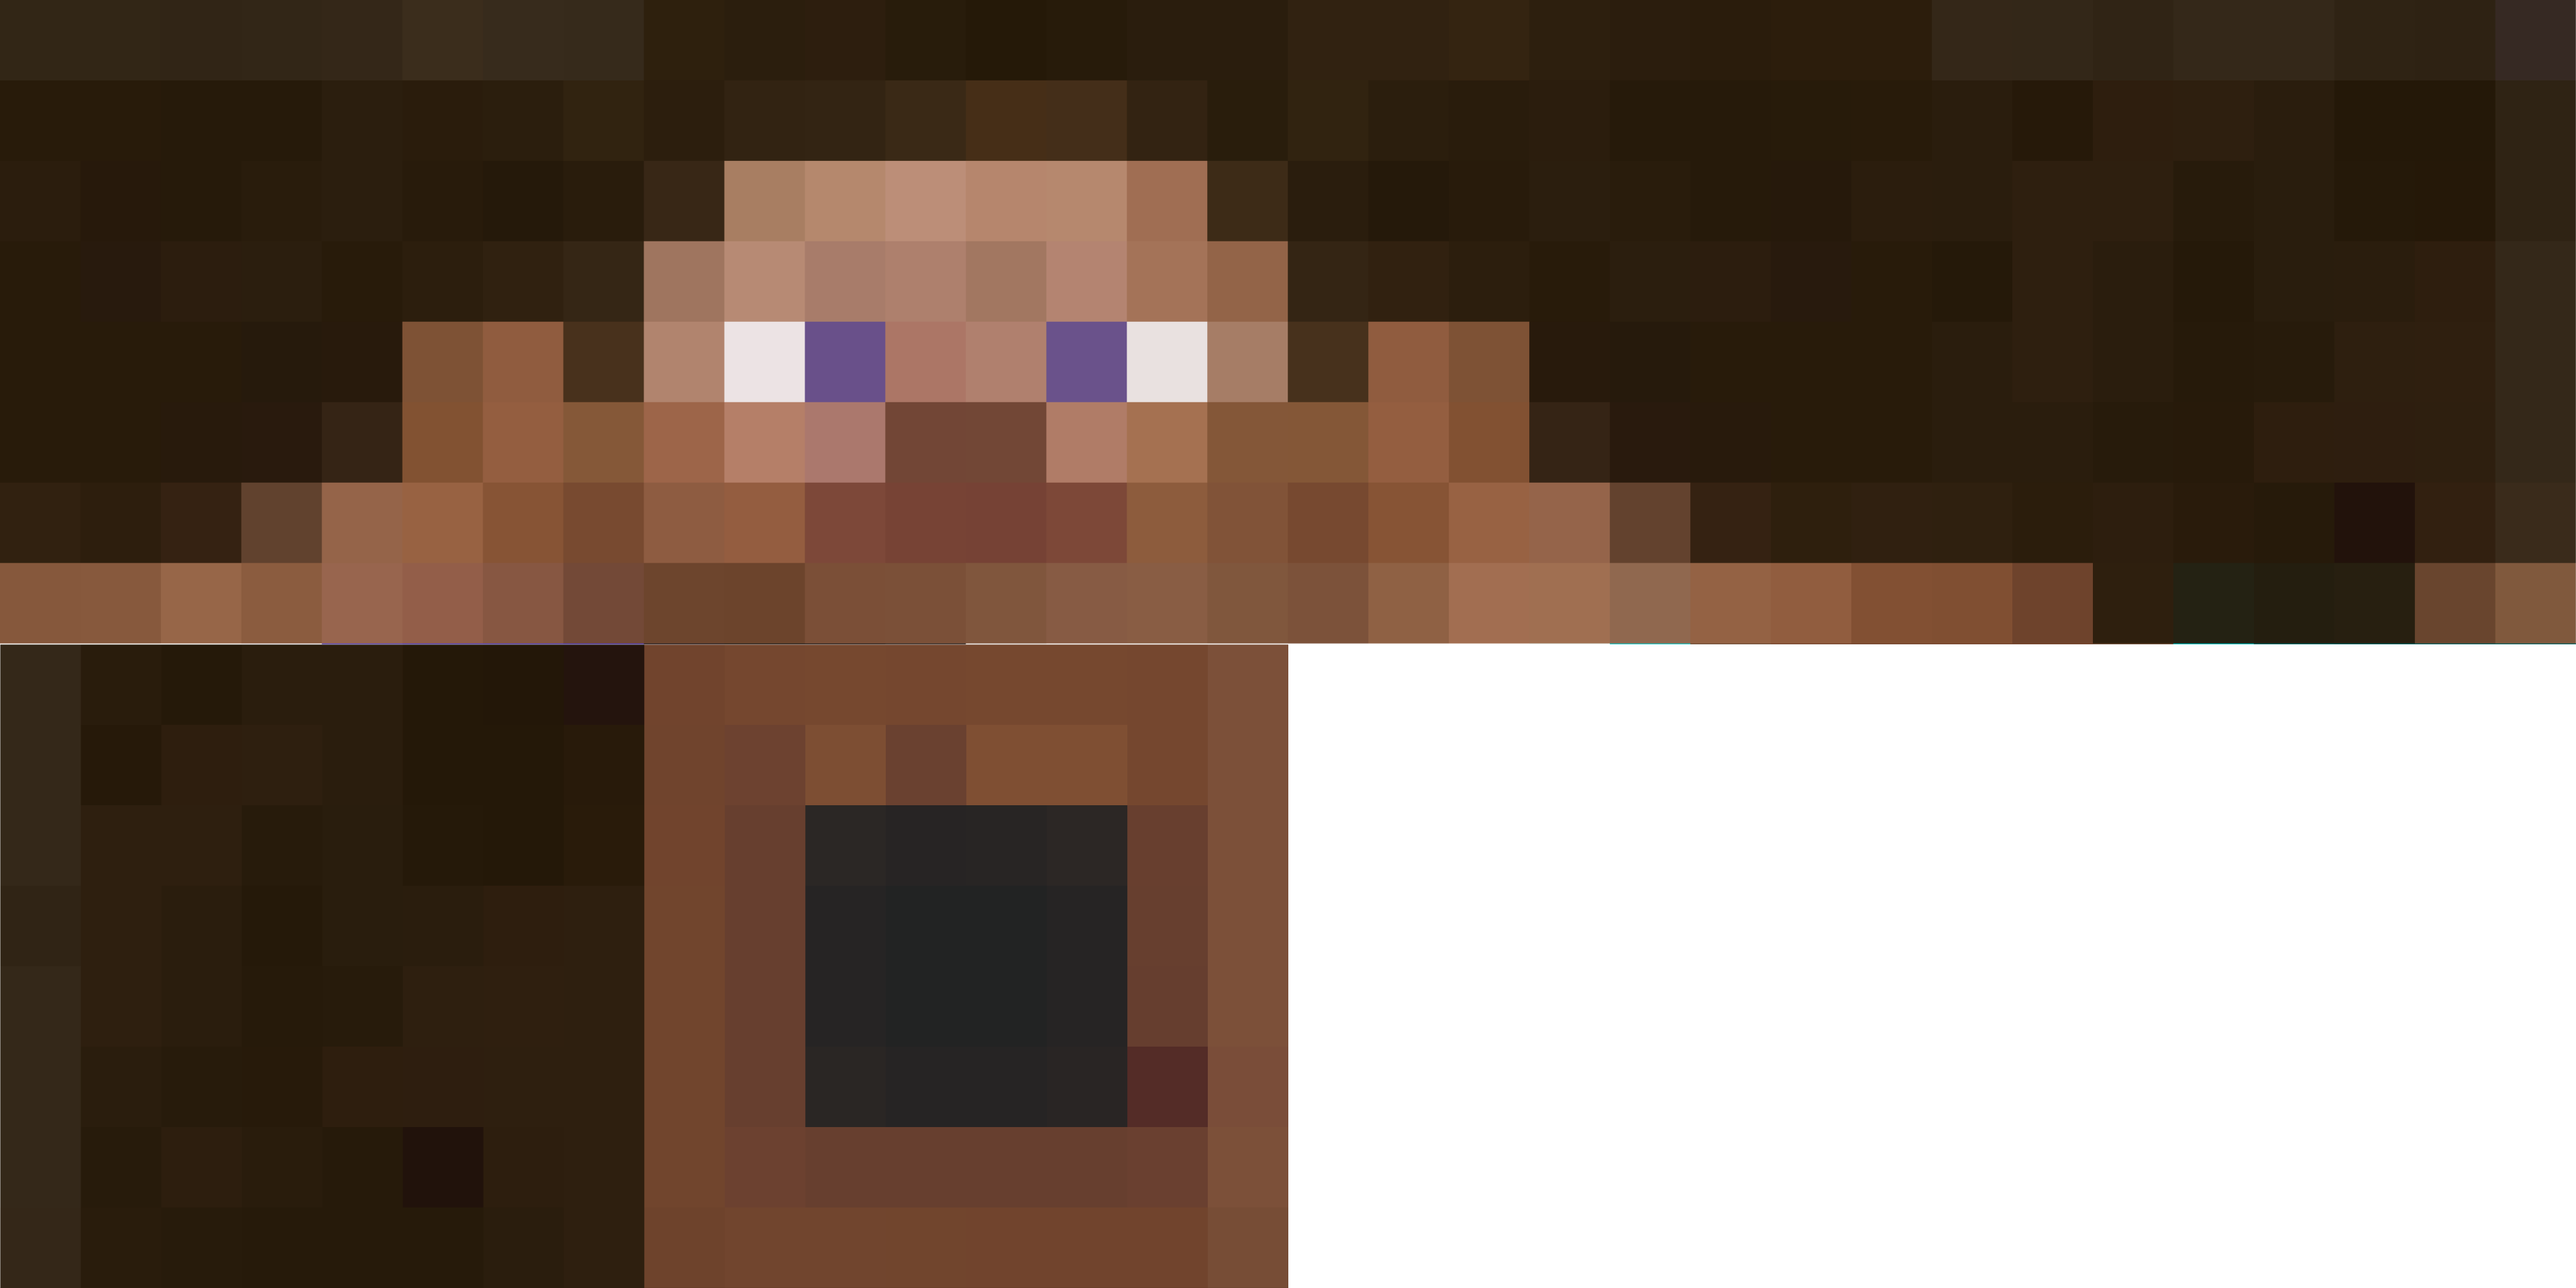
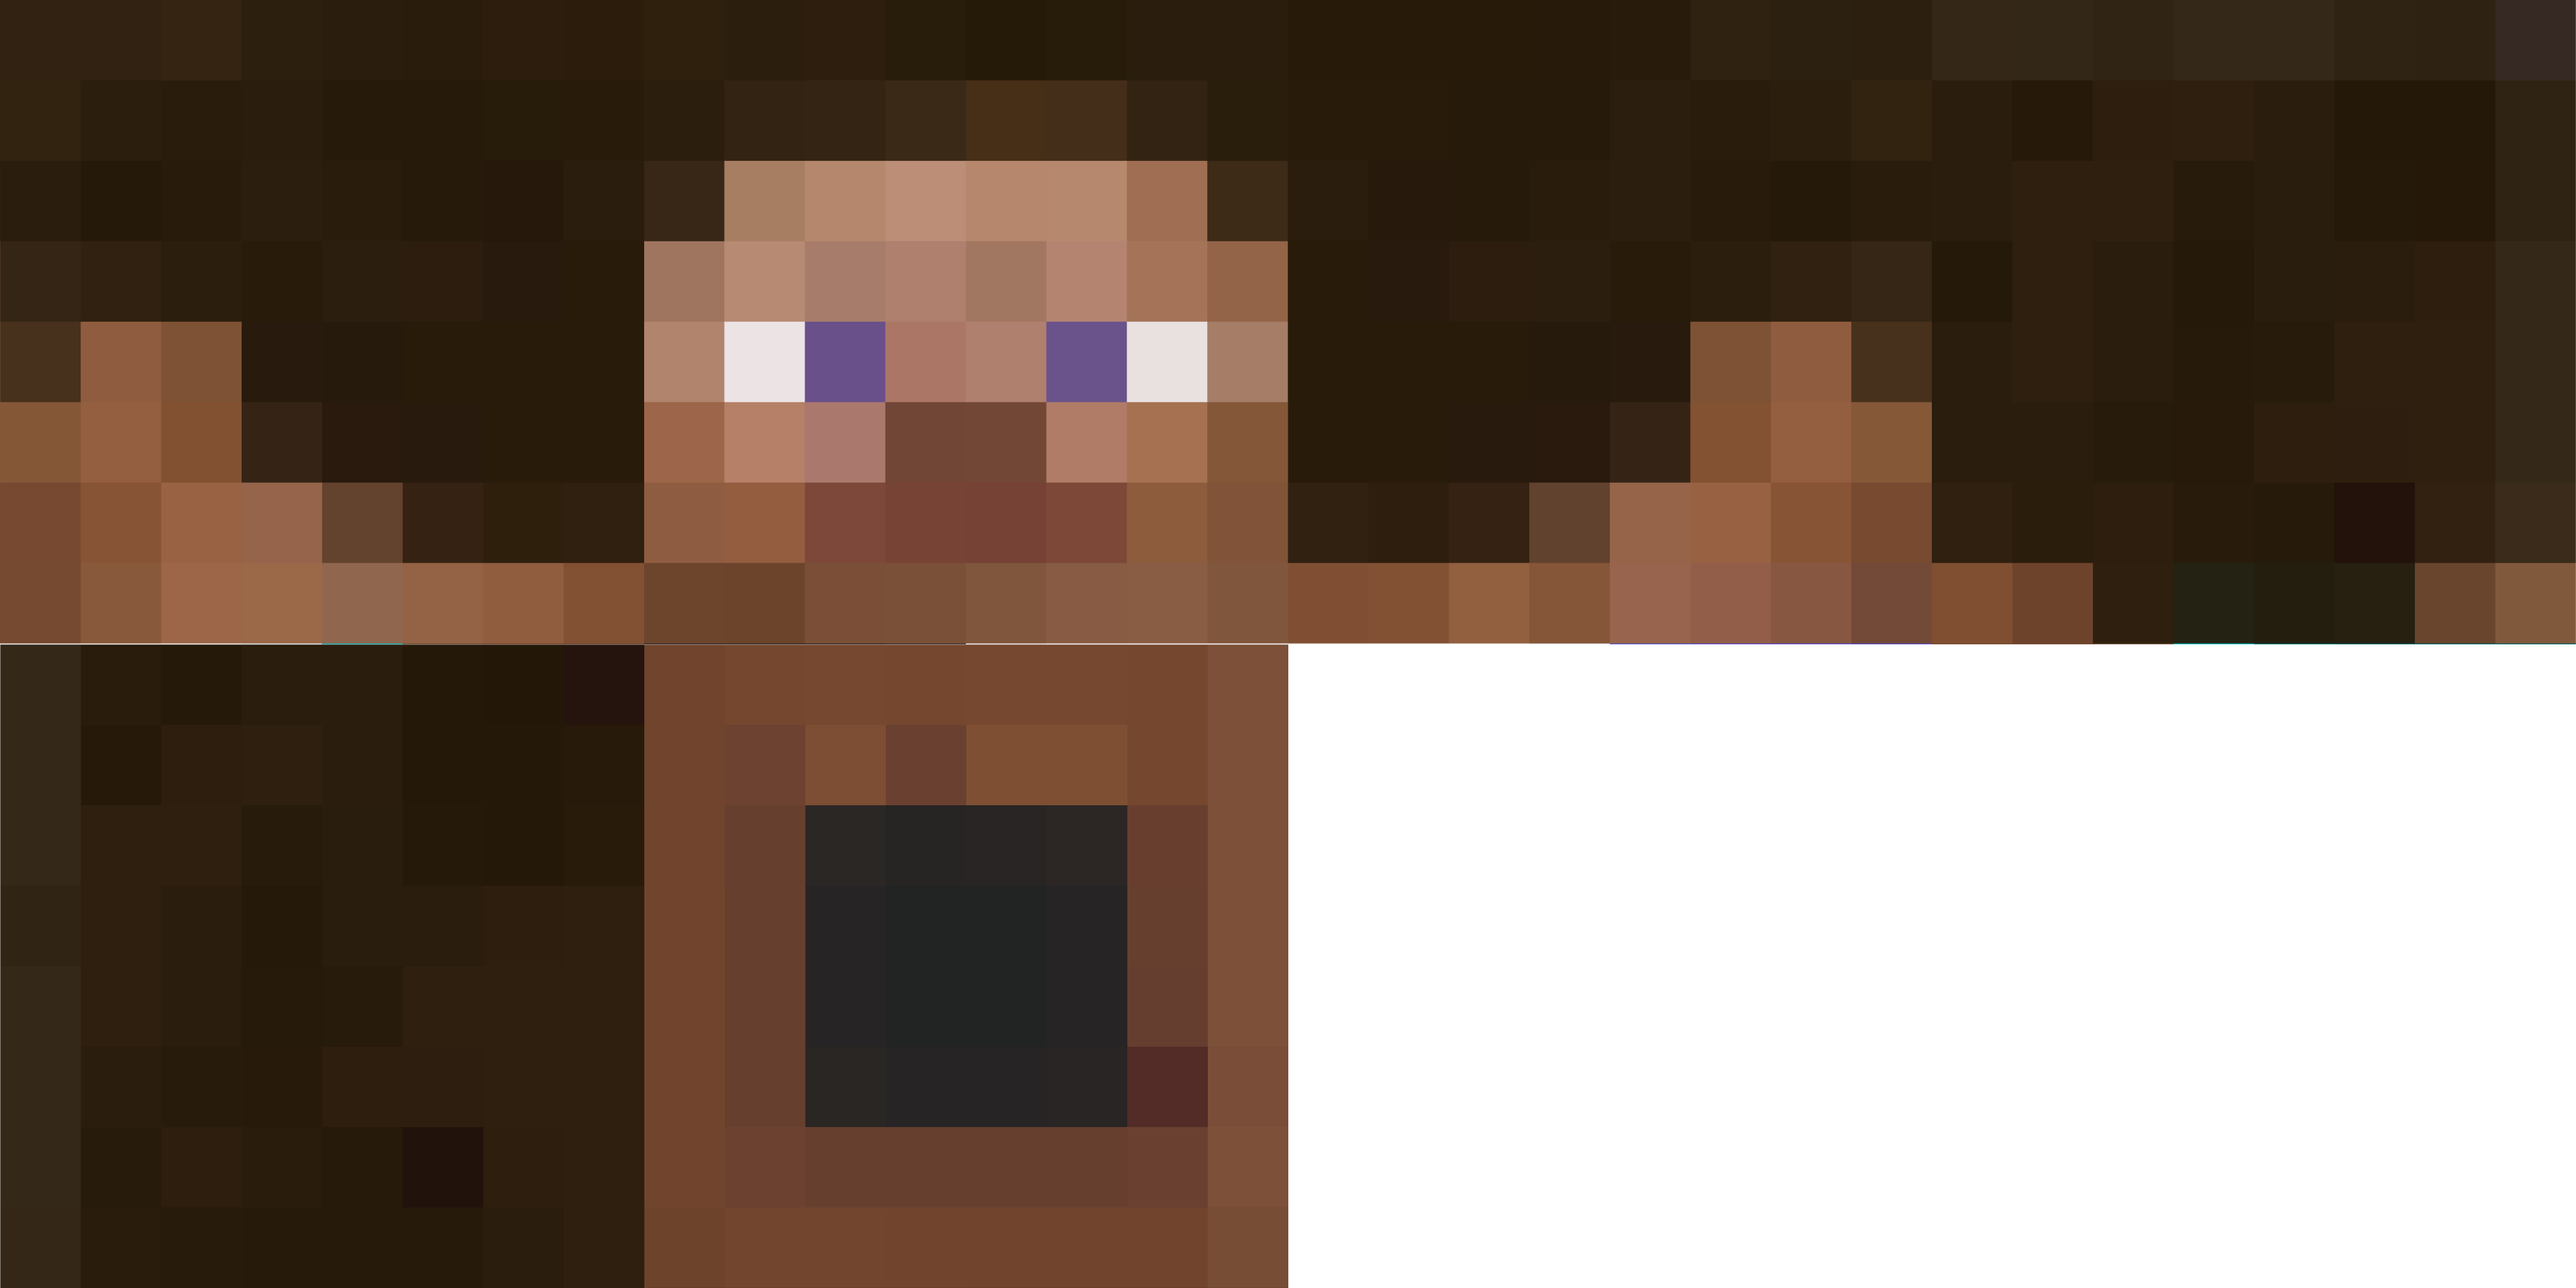
tweak texture positioning

Changed region(s): [[0.4961, 0.2479, 0.7752, 0.4958], [0.0, 0.2479, 0.2481, 0.4648]]

diff --git a/proyek-akhir/js/init.js b/proyek-akhir/js/init.js
@@ -395,18 +395,56 @@ export function initBuffers(state) {
     state.cubeVertexIndexBuffer.itemSize = 1;
     state.cubeVertexIndexBuffer.numItems = 36;
     
-    var textureCubeCoords = [
-    // Left face
-    1/2, 1/2,
-    3/4, 1/2,
-    3/4, 1,
-    1/2, 1,
+    // var textureCubeCoords = [
+    // // Left face
+    // 1/2, 1/2,
+    // 3/4, 1/2,
+    // 3/4, 1,
+    // 1/2, 1,
 
-    // Right face
+    // // Right face
+    // 1/4, 1/2,
+    // 1/4, 1.0,
+    // 0, 1,
+    // 0, 1/2,
+
+    // // Top face
+    // 0.0, 0.0,
+    // 1/4, 0.0,
+    // 1/4, 1/2,
+    // 0.0, 1/2,
+
+    // // Bottom face
+    // 1/4, 0.0,
+    // 1/2, 0.0,
+    // 1/2, 1/2,
+    // 1/4, 0.5,
+
+    // // Back face
+    // 1, 1/2,
+    // 1, 1,
+    // 3/4, 1,
+    // 3/4, 1/2,
+
+    // // Front face
+    // 1/4, 1/2,
+    // 1/2, 1/2,
+    // 1/2, 1,
+    // 1/4, 1,
+
+    // ];
+    var textureCubeCoords = [
+    // Back face
+    3/4, 1/2,
+    1, 1/2,
+    1, 1,
+    3/4, 1,
+
+    // Front face
+    1/2, 1/2,
+    1/2, 1,
+    1/4, 1,
     1/4, 1/2,
-    1/4, 1.0,
-    0, 1,
-    0, 1/2,
 
     // Top face
     0.0, 0.0,
@@ -420,17 +458,18 @@ export function initBuffers(state) {
     1/2, 1/2,
     1/4, 0.5,
 
-        // Back face
-        1, 1/2,
-        1, 1,
-        3/4, 1,
-        3/4, 1/2,
-
-    // Front face
-    1/4, 1/2,
-    1/2, 1/2,
+    // Right face
+    3/4, 1/2,
+    3/4, 1,
     1/2, 1,
-    1/4, 1,
+    1/2, 1/2,
+
+    // Left face
+    0, 1/2,
+    1/4, 1/2,
+    1/4, 1.0,
+    0, 1,
+
 
     ];
     state.cubeTextureBuffer = state.gl.createBuffer();

diff --git a/proyek-akhir/js/hirarki/room.js b/proyek-akhir/js/hirarki/room.js
@@ -4,7 +4,7 @@ import { setMatrixUniforms, setupMaterial, setupToDrawCubeInsides, chooseTexture
 function drawRoom(state, shadow) {
   mvPushMatrix(state);
   //item specific modifications
-  mat4.scale(state.mvMatrix, [20.0, 20.0, 30.0]);
+  mat4.scale(state.mvMatrix, [20.0, 20.0, 20.0]);
   //draw
   setupToDrawCubeInsides(state, shadow);
   setMatrixUniforms(state, shadow);
@@ -16,5 +16,5 @@ function drawRoom(state, shadow) {
 
 export function assembleRoom(state) {
   state.roomNode = {"draw" : drawRoom, "matrix" : mat4.identity(mat4.create())};
-  mat4.translate(state.roomNode.matrix, [0, 15, 0]);
+  mat4.translate(state.roomNode.matrix, [0, 15, -10]);
 }

diff --git a/proyek-akhir/Hirarki.html b/proyek-akhir/Hirarki.html
@@ -196,7 +196,7 @@
                     </div>
                     <div>
                         Y<br />
-                        <input type="range" min="-50" max="50" value="20" class="slider" id="cameraPositionY">
+                        <input type="range" min="-50" max="400" value="20" class="slider" id="cameraPositionY">
                     </div>
                     <div>
                         Z<br />
